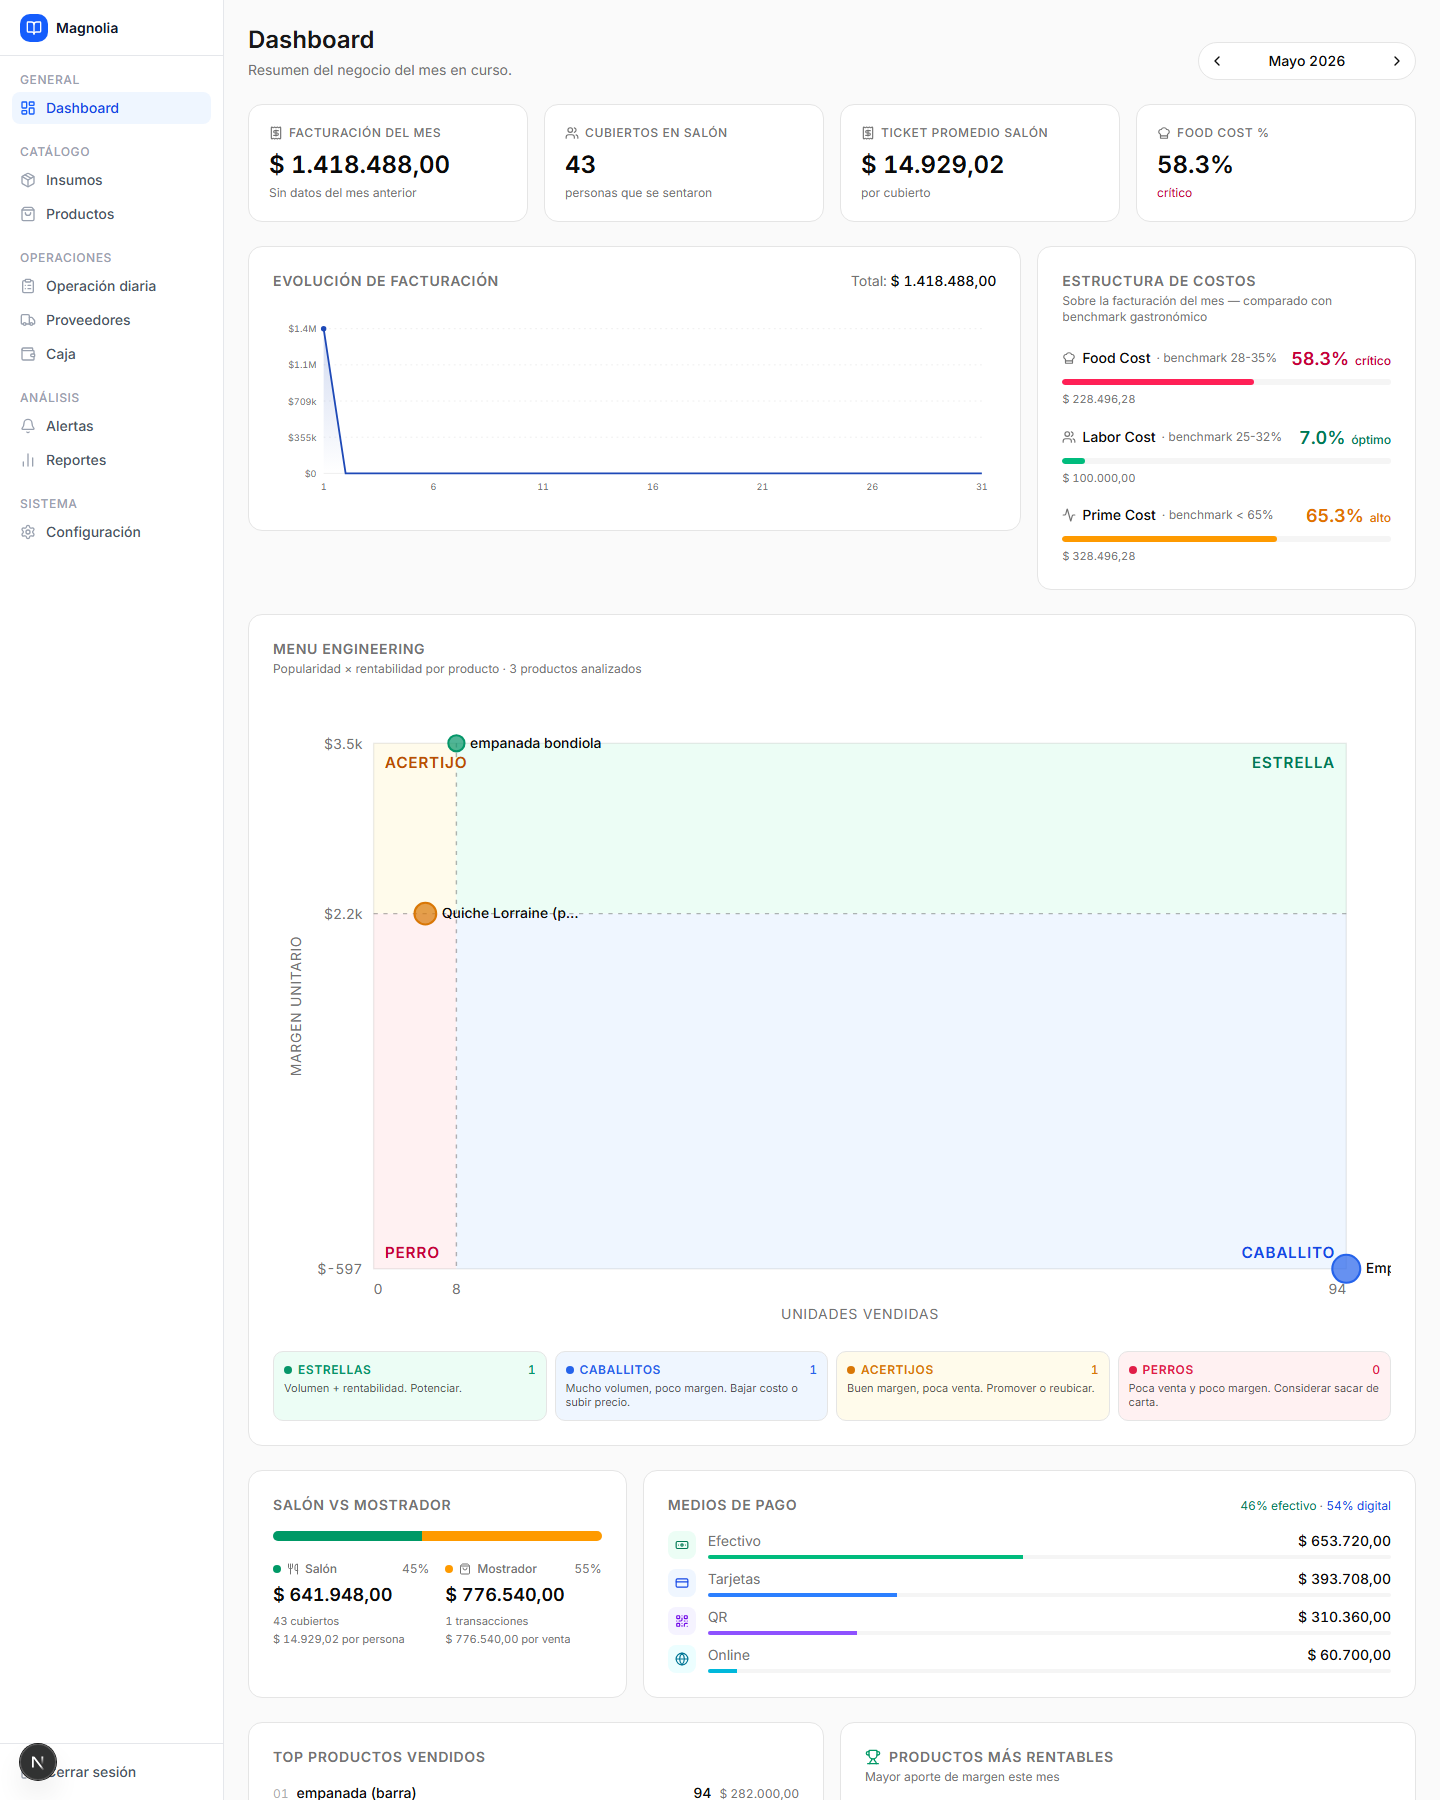
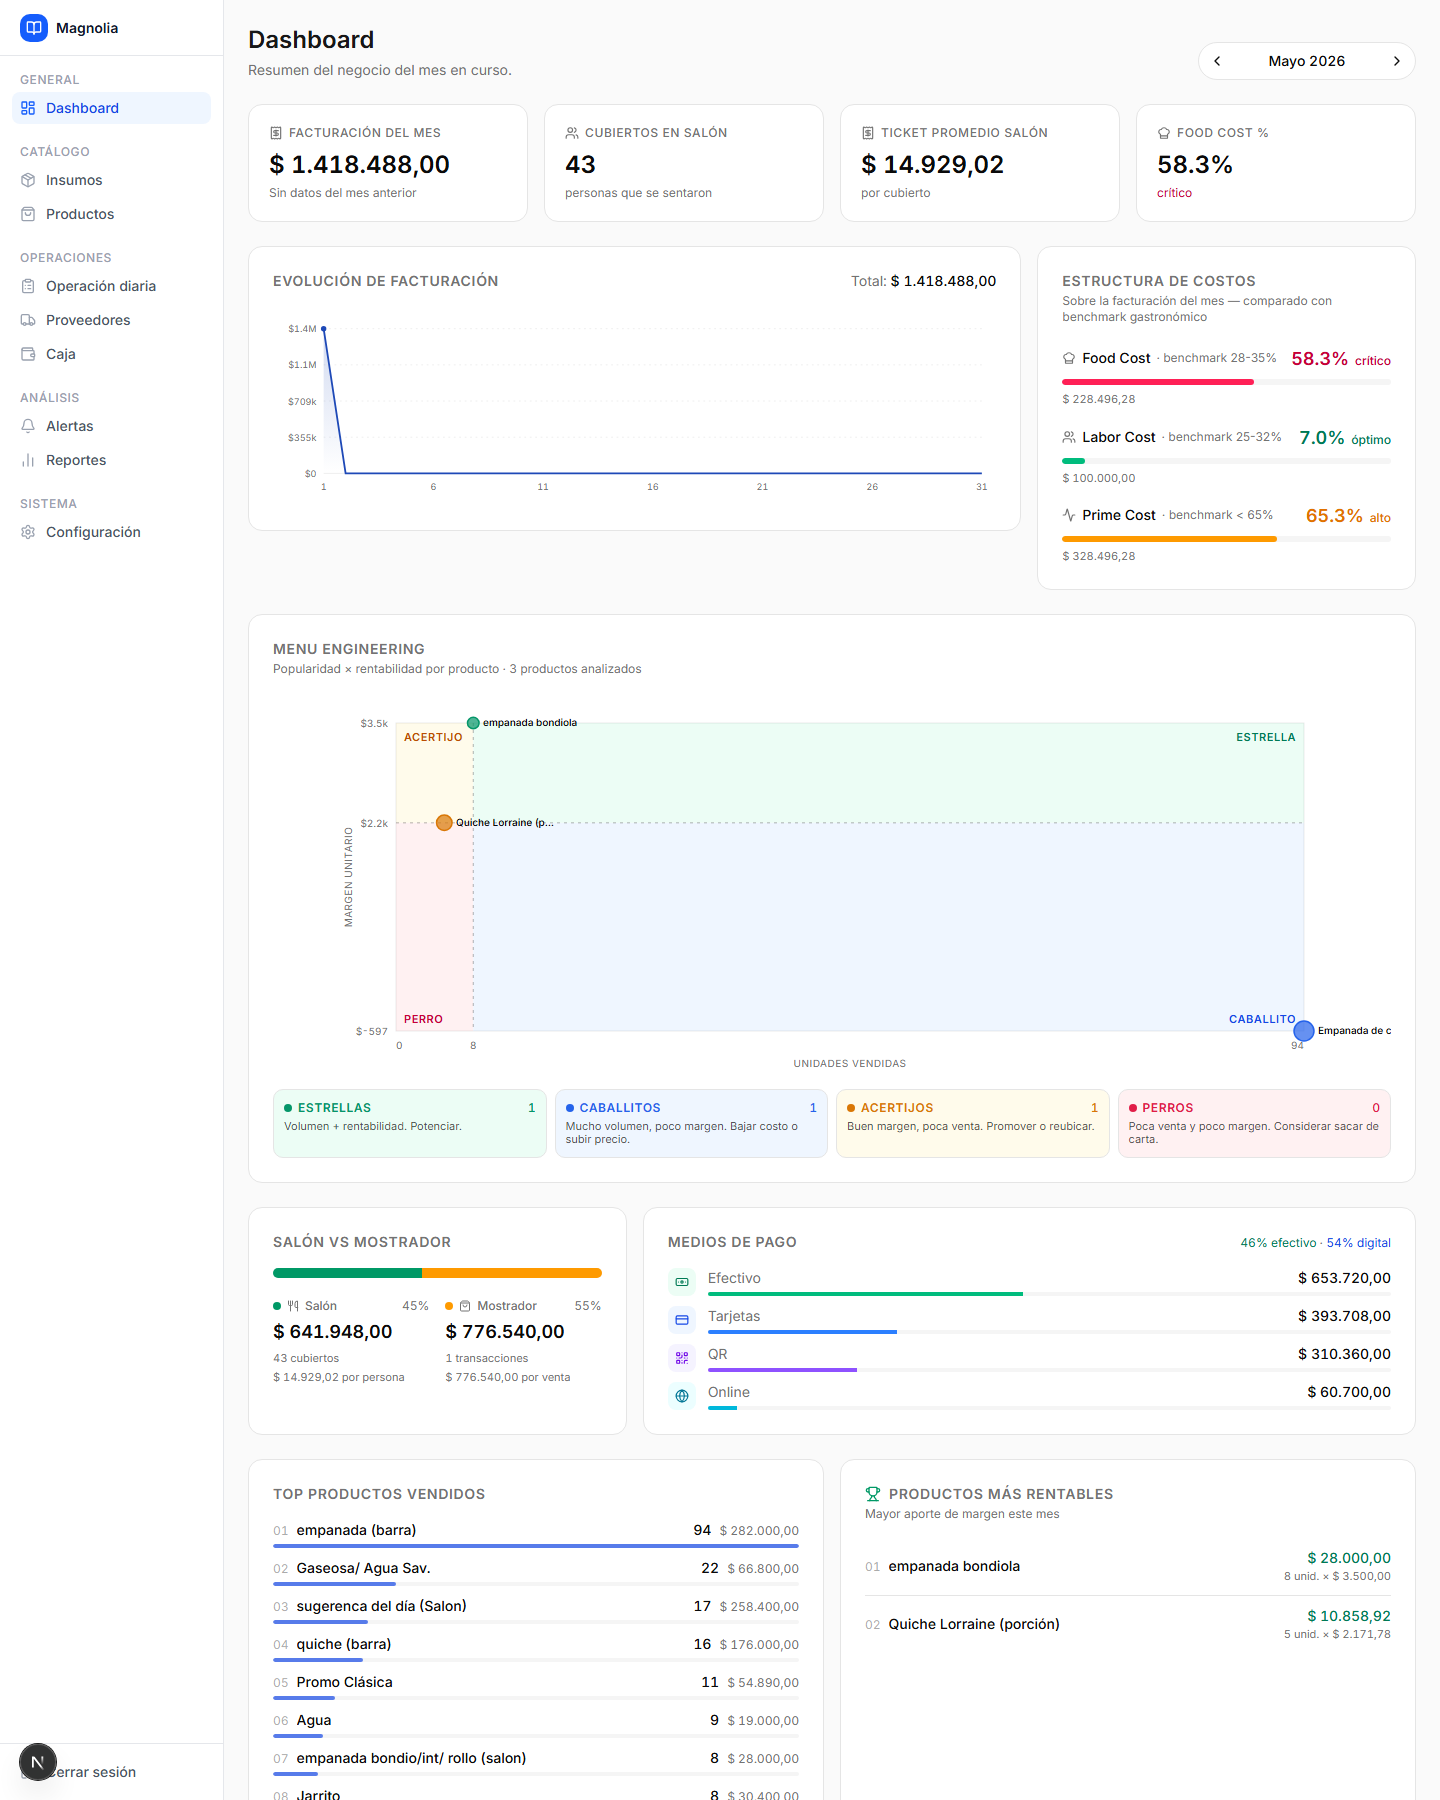
fix(dashboard): Menu Engineering Matrix con aspect ratio wide y cap de altura
Antes: 800x460 viewBox sin cap → al estirarse al 100% del contenedor
quedaba >600px de alto, ocupando toda la pantalla.

Ahora: 1000x380 viewBox + max-h-[380px]. Aspect ratio 2.6:1 natural
para desktop, no se expande mas alla del cap.

diff --git a/src/features/dashboard/components/menu-engineering.tsx b/src/features/dashboard/components/menu-engineering.tsx
@@ -28,10 +28,10 @@ export function MenuEngineeringMatrix({ data }: Props) {
     )
   }
 
-  // SVG layout
-  const width = 800
-  const height = 460
-  const padding = { top: 36, right: 32, bottom: 48, left: 72 }
+  // SVG layout — aspect ratio wide para desktop, cap de altura
+  const width = 1000
+  const height = 380
+  const padding = { top: 30, right: 28, bottom: 42, left: 64 }
   const innerW = width - padding.left - padding.right
   const innerH = height - padding.top - padding.bottom
 
@@ -94,7 +94,11 @@ export function MenuEngineeringMatrix({ data }: Props) {
       </div>
 
       <div className="mt-4 overflow-x-auto">
-        <svg viewBox={`0 0 ${width} ${height}`} className="h-auto w-full min-w-[640px]">
+        <svg
+          viewBox={`0 0 ${width} ${height}`}
+          preserveAspectRatio="xMidYMid meet"
+          className="h-auto max-h-[380px] w-full min-w-[640px]"
+        >
           {/* Cuadrantes de fondo */}
           {quadRects.map((q) => (
             <rect key={q.kind} x={q.x} y={q.y} width={q.w} height={q.h} fill={CUADRANTE_INFO[q.kind].tint} />
